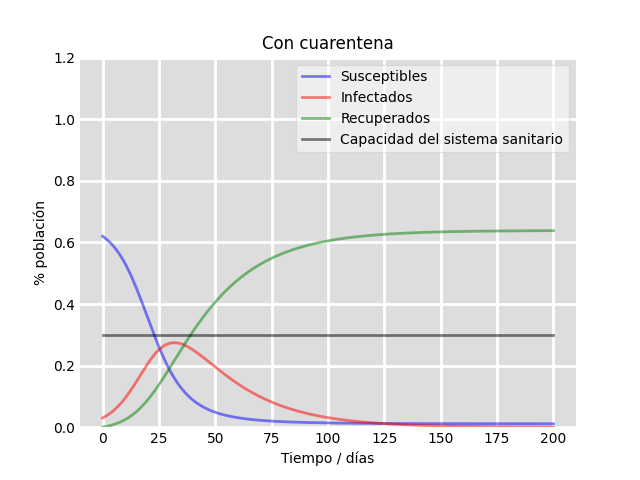
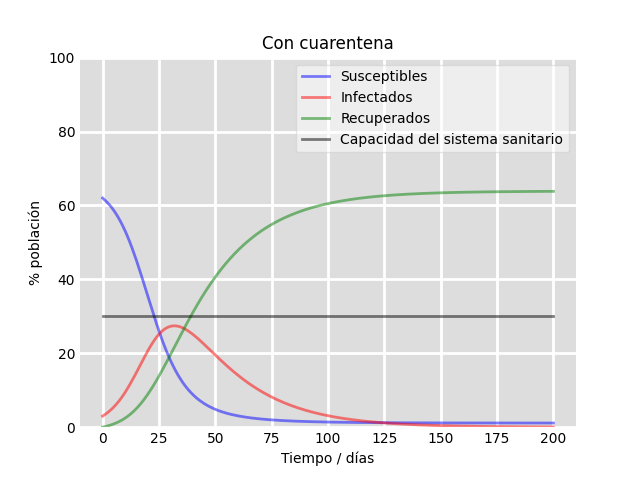
Modela con una poblacion total de 1

diff --git a/TP-2/Ejercicio4.py b/TP-2/Ejercicio4.py
@@ -5,7 +5,6 @@ import sys
 
 MOSTRAR_GRAFICO = False
 DIAS = 200
-POBALCION_TOTAL = 1000
 PORCENTAJE_CONTAGIO_INICIAL = 0.03
 PORCENTAJE_FIN_EPIDEMIA = 0.01
 BETA = 0.27
@@ -17,14 +16,14 @@ CAMAS = np.full(DIAS, PORCENTAJE_CAMAS_POBLACION)
 
 def SIR(y, t):
     S, I, R = y
-    dsdt = -BETA*S*I/POBALCION_TOTAL
-    didt = BETA*S*I/POBALCION_TOTAL - GAMMA*I
+    dsdt = -BETA*S*I
+    didt = BETA*S*I - GAMMA*I
     drdt = GAMMA*I
     return dsdt, didt, drdt
 
 def simular_sin_cuarentena():
-    I = POBALCION_TOTAL*PORCENTAJE_CONTAGIO_INICIAL
-    S = POBALCION_TOTAL - I
+    I = PORCENTAJE_CONTAGIO_INICIAL
+    S = 1 - I
     R = 0
     y0 = [S, I, R]
 
@@ -32,8 +31,8 @@ def simular_sin_cuarentena():
     return ret.T
 
 def simular_con_cuarentena():
-    I = POBALCION_TOTAL*PORCENTAJE_CONTAGIO_INICIAL
-    S = POBALCION_TOTAL - I - PORCENTAJE_POBLACION_EN_CUARENTENA*POBALCION_TOTAL
+    I = PORCENTAJE_CONTAGIO_INICIAL
+    S = 1 - I - PORCENTAJE_POBLACION_EN_CUARENTENA
     R = 0
     y0 = [S, I, R]
 
@@ -51,14 +50,14 @@ def imprimir_informacion(SIR, modelo):
             maximo_infectados = I[dia]
             dia_pico_infectados = dia
 
-        if I[dia] < POBALCION_TOTAL*PORCENTAJE_FIN_EPIDEMIA and dia_fin_enfermedad is 0:
+        if I[dia] < PORCENTAJE_FIN_EPIDEMIA and dia_fin_enfermedad is 0:
             dia_fin_enfermedad = dia
 
-        if I[dia] >= POBALCION_TOTAL*PORCENTAJE_CAMAS_POBLACION and dia_saturacion is 0:
+        if I[dia] >= PORCENTAJE_CAMAS_POBLACION and dia_saturacion is 0:
             dia_saturacion = dia
 
     print("Información del modelo " + modelo)
-    print("El pico de la enfermedad fue el día {0} con {1:.2f} infectados".format(dia_pico_infectados, maximo_infectados))
+    print("El pico de la enfermedad fue el día {0} con el {1:.2f}% de la población infectada".format(dia_pico_infectados, maximo_infectados*100))
     print("La epidemia duró {0} días".format(dia_fin_enfermedad))
     if dia_saturacion is not 0:
         print("El sistema de salud se saturó el día", dia_saturacion)
@@ -71,13 +70,13 @@ def graficar(SIR, modelo):
     S, I, R = SIR
     fig = plt.figure(facecolor='w')
     ax = fig.add_subplot(111, facecolor='#dddddd', axisbelow=True)
-    ax.plot(TIEMPO, S/POBALCION_TOTAL, 'b', alpha=0.5, lw=2, label='Susceptibles')
-    ax.plot(TIEMPO, I/POBALCION_TOTAL, 'r', alpha=0.5, lw=2, label='Infectados')
-    ax.plot(TIEMPO, R/POBALCION_TOTAL, 'g', alpha=0.5, lw=2, label='Recuperados')
-    ax.plot(TIEMPO, CAMAS, 'black', alpha=0.5, lw=2, label='Capacidad del sistema sanitario')
+    ax.plot(TIEMPO, S*100, 'b', alpha=0.5, lw=2, label='Susceptibles')
+    ax.plot(TIEMPO, I*100, 'r', alpha=0.5, lw=2, label='Infectados')
+    ax.plot(TIEMPO, R*100, 'g', alpha=0.5, lw=2, label='Recuperados')
+    ax.plot(TIEMPO, CAMAS*100, 'black', alpha=0.5, lw=2, label='Capacidad del sistema sanitario')
     ax.set_xlabel('Tiempo / días')
     ax.set_ylabel('% población')
-    ax.set_ylim(0,1.2)
+    ax.set_ylim(0,100)
     ax.yaxis.set_tick_params(length=0)
     ax.xaxis.set_tick_params(length=0)
     ax.grid(b=True, which='major', c='w', lw=2, ls='-')
